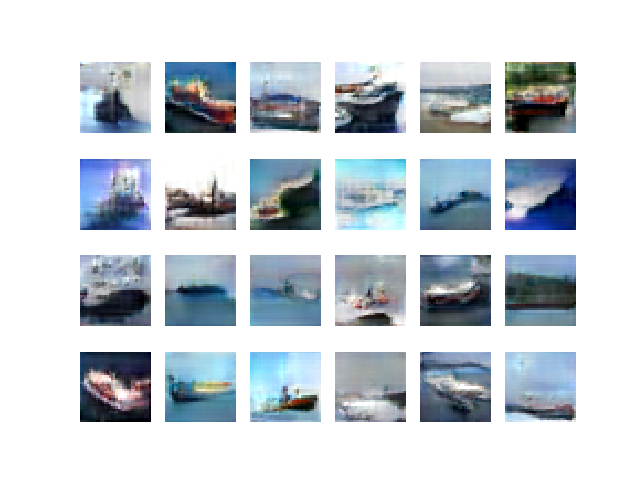
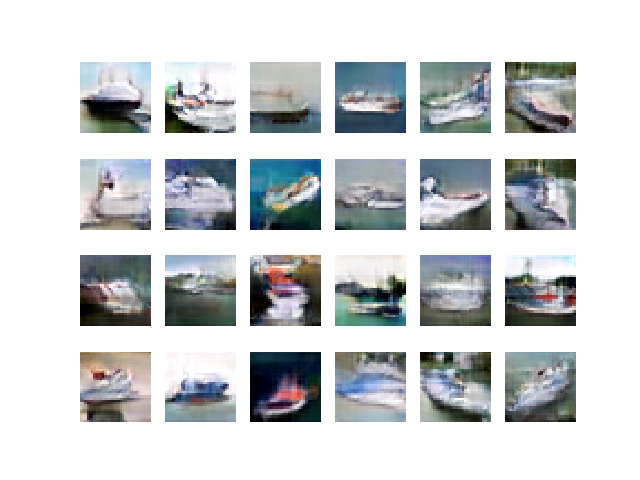
PG GAN completed

diff --git a/examples/pg_gan.py b/examples/pg_gan.py
@@ -31,6 +31,21 @@ from skimage.measure import block_reduce
 # Auxiliary functions
 #-------------------------------  
 
+def augment(data):
+    off_x_p = data.copy()
+    off_x_p[:,1:,:,:] = off_x_p[:,:-1,:,:]
+    off_x_m = data.copy()
+    off_x_p[:,:-1,:,:] = off_x_p[:,1:,:,:]
+    data = np.concatenate((data,off_x_p,off_x_m), axis = 0)
+    
+    off_y_p = data.copy()
+    off_y_p[:,:,1:,:] = off_y_p[:,:,:-1,:]
+    off_y_m = data.copy()
+    off_y_m[:,:,:-1,:] = off_y_m[:,:,1:,:]
+    data = np.concatenate((data,off_y_p,off_y_m), axis = 0)
+    
+    return data
+
 def dynamic_he_scale(x, gain = np.sqrt(2)): 
     #He's normal dynamic weight scaler
     shape = x.shape.as_list()
@@ -201,17 +216,21 @@ def sample_images(gen, file):
     
     
 # Load the dataset
-(X_train, labels), (_, _) = cifar10.load_data()
-indx = np.where(labels == 8)[0]
-X_train = X_train[indx]
+(dataseta, labelsa), (datasetb, labelsb) = cifar10.load_data()
+dataset = np.concatenate((dataseta,datasetb), axis = 0)
+labels = np.concatenate((labelsa,labelsb), axis = 0)
 
-#Configure input
-X_train = (X_train.astype(np.float32) - 127.5) / 127.5
-if len(X_train.shape)<4:
-    X_train = np.expand_dims(X_train, axis=3)
+indx = np.where(labels == 8)[0] # we choose only one specific domain from the dataset
+dataset = dataset[indx]
+
+# Configure input
+dataset = (dataset.astype(np.float32) - 127.5) / 127.5
+if len(dataset.shape)<4:
+    dataset = np.expand_dims(dataset, axis=3)
     
-#here has to be a step with data augmentation    
 
+# 6000 examples is not enough, so we augment dataset by shifting it along axis by 1 pixel 
+dataset = augment(dataset)
  
 epochs_list = [4000, 8000, 16000, 32000]
 batch_size_list = [16, 16, 16, 16]  
@@ -221,8 +240,8 @@ for i in range(len(epochs_list)):
     epochs = epochs_list[i]
     batch_size = batch_size_list[i]
     
-    sz = X_train.shape[1] // image_size_list[i]
-    data_set = block_reduce(X_train, block_size=(1, sz, sz, 1), func=np.mean) 
+    sz = dataset.shape[1] // image_size_list[i]
+    data_set = block_reduce(dataset, block_size=(1, sz, sz, 1), func=np.mean) 
     print(data_set.shape)
     
     # Build and train GAN

diff --git a/GANLib/GANs/GAN.py b/GANLib/GANs/GAN.py
@@ -3,7 +3,6 @@ from keras.models import Model, load_model
 from keras.optimizers import Adam
 import os
 import numpy as np
-import warnings
 
 from .. import metrics
 from .. import utils
@@ -128,43 +127,12 @@ class GAN(object):
         
         
     def build_models(self, files = None, custom_objects = None):
-        '''
-        self.set_models_params()
-        
-        loaded = False
-        if files is not None:
-            # Try to load models
-            try:
-                self.generator = load_model(files[0], custom_objects=custom_objects)
-                self.discriminator = load_model(files[1], custom_objects=custom_objects)
-                loaded = True
-                print('models loaded')  
-            except IOError as e:
-                warnings.warn("Files cannot be opened. Models will be rebuilded instead!")
-                
-        if not loaded:
-            # Build models
-            if self.build_discriminator is None or self.build_generator is None:
-                raise Exception("Model building functions are not defined")
-            else:   
-                self.generator = self.build_generator()
-                self.discriminator = self.build_discriminator()
-            
-            print('models builded')  
-        '''    
-        
         for model in self.models:
             if not hasattr(self, model): raise Exception("%s are not defined!"%(model))
             
         self.build_graph()
-        
-          
-    '''        
-    def save(self, files):
-        self.generator.save(files[0])
-        self.discriminator.save(files[1])
-    '''    
-        
+      
+      
     def test_network(self, batch_size):
         noise = np.random.uniform(-1, 1, (batch_size, self.latent_dim))
         gen_imgs = self.generator.predict([noise])

diff --git a/100DMLCLog.md b/100DMLCLog.md
@@ -312,3 +312,10 @@
 **Today's progress** :  PG GAN almost complied. API of the library a bit more intuitive now.
 
 **Link to work:**  [Commit](https://github.com/Mylittlerapture/GANLib/commit/0c4831816145f65eb818fe3f1baf55e019e6a2ae)
+
+
+## Day 46 : August 21, 2018
+ 
+**Today's progress** :  Completed PG GAN example.
+
+**Link to work:**  [Commit]()
